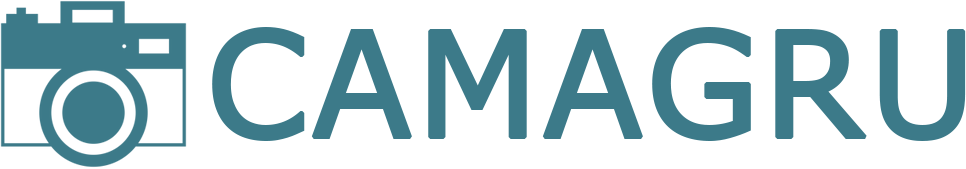
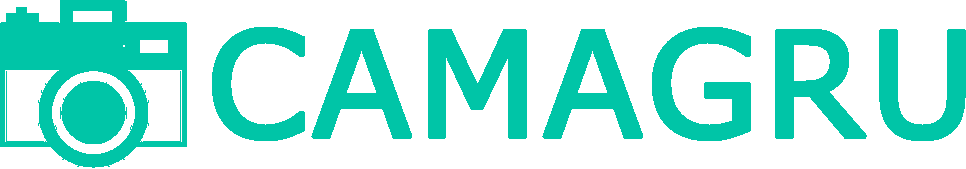
create post page && correct regex username

diff --git a/srcs/pages/post/index.js b/srcs/pages/post/index.js
@@ -1,0 +1,57 @@
+const videoElement = document.querySelector('video');
+const audioSelect = document.querySelector('select#audioSource');
+const videoSelect = document.querySelector('select#videoSource');
+
+navigator.mediaDevices.enumerateDevices()
+  .then(gotDevices).then(getStream).catch(handleError);
+
+audioSelect.onchange = getStream;
+videoSelect.onchange = getStream;
+
+function gotDevices(deviceInfos) {
+  for (let i = 0; i !== deviceInfos.length; ++i) {
+    const deviceInfo = deviceInfos[i];
+    const option = document.createElement('option');
+    option.value = deviceInfo.deviceId;
+    if (deviceInfo.kind === 'audioinput') {
+      option.text = deviceInfo.label ||
+        'microphone ' + (audioSelect.length + 1);
+      audioSelect.appendChild(option);
+    } else if (deviceInfo.kind === 'videoinput') {
+      option.text = deviceInfo.label || 'camera ' +
+        (videoSelect.length + 1);
+      videoSelect.appendChild(option);
+    } else {
+      console.log('Found another kind of device: ', deviceInfo);
+    }
+  }
+}
+
+function getStream() {
+  if (window.stream) {
+    window.stream.getTracks().forEach(function(track) {
+      track.stop();
+    });
+  }
+
+  const constraints = {
+    audio: {
+      deviceId: {exact: audioSelect.value}
+    },
+    video: {
+      deviceId: {exact: videoSelect.value}
+    }
+  };
+
+  navigator.mediaDevices.getUserMedia(constraints).
+    then(gotStream).catch(handleError);
+}
+
+function gotStream(stream) {
+  window.stream = stream; // make stream available to console
+  videoElement.srcObject = stream;
+}
+
+function handleError(error) {
+  console.error('Error: ', error);
+}

diff --git a/srcs/components/signup_form/index.js b/srcs/components/signup_form/index.js
@@ -32,9 +32,7 @@ function emailChecker() {
 function usernameChecker() {
   var ret;
 
-  ret = username.match(
-    /^(?=.{4,20}$)(?![_.])(?!.*[_.]{2})[a-zA-Z0-9._]+(?<![_.])$/,
-  );
+  ret = username.match(/^[a-zA-Z0-9\.\-\_]{4,20}$/);
   document.getElementById('signup-username').className = ret
     ? 'input is-success'
     : 'input is-danger';

diff --git a/srcs/pages/login/index.css b/srcs/pages/login/index.css
@@ -5,6 +5,14 @@
   margin: 0 auto;
 }
 
+#login-success {
+  background: #23d160;
+  width: 50%;
+  text-align: center;
+  margin: 10 auto;
+  color: #fff;
+}
+
 #login-error {
   background: #ff2b56;
   width: 50%;

diff --git a/srcs/components/signup_form/index.php b/srcs/components/signup_form/index.php
@@ -1,17 +1,17 @@
 <style><?php include("{$path}/components/signup_form/index.css"); ?></style>
-<script language='javascript'><?php include("{$path}/components/signup_form/index.js"); ?></script>
+<script><?php include("{$path}/components/signup_form/index.js"); ?></script>
 <div id="signup-wrapper" class="card">
   <h1 id="signup-title" class="title is-2">Sign Up</h1>
   <form id="signup-form" method="post" action="/signup">
-    <input id="signup-email" name="email" class="input" type="email" placeholder="Email" oninput="emailListener();"><br/>
+    <input id="signup-email" name="email" class="input" type="email" placeholder="Email" oninput="emailListener()"><br/>
     <p id="signup-email-danger" class="help is-danger">This email is invalid.</p>
-    <input id="signup-username" name="username" class="input" type="text" placeholder="Username" oninput="usernameListener();"><br/>
-    <p id="signup-username-danger" class="help is-danger">4 lengths alphanumeric characters minimum with . or _ in middle.</p>
-    <input id="signup-password" name="password" class="input" type="password" placeholder="Password" oninput="passwordListener();"><br/>
+    <input id="signup-username" name="username" class="input" type="text" placeholder="Username" oninput="usernameListener()"><br/>
+    <p id="signup-username-danger" class="help is-danger">Expected 4-20 lengths with alphanumeric or .-_ characters</p>
+    <input id="signup-password" name="password" class="input" type="password" placeholder="Password" oninput="passwordListener()"><br/>
     <p id="signup-password-warning" class="help is-warning">Add a special character for more security.</p>
-    <p id="signup-password-danger" class="help is-danger">Passwords must have at least 6 uppercase, lowercase and numeric characters.</p>
-    <input id="signup-confirmPassword" name="confirmPassword" class="input" type="password" placeholder="Confirm Password" oninput="confirmPasswordListener();"><br/>
-    <p id="signup-confirmPassword-danger" class="help is-danger">Not the same password</p>
+    <p id="signup-password-danger" class="help is-danger">Expected at least 6 uppercase, lowercase and numeric characters.</p>
+    <input id="signup-confirmPassword" name="confirmPassword" class="input" type="password" placeholder="Confirm Password" oninput="confirmPasswordListener()"><br/>
+    <p id="signup-confirmPassword-danger" class="help is-danger">Expected the same password</p>
     <input id="signup-send-button" class="button is-primary" type="submit" value="Sign up" disabled />
   </form>
   <div>Have an account? <a href="/login">Log in</a></div>

diff --git a/srcs/pages/post/index.php b/srcs/pages/post/index.php
@@ -1,0 +1,73 @@
+<?php
+  if (is_connect() == 0)
+    echo '<script>document.location.href="/signup";</script>';
+?>
+<style>
+#container {
+	margin: 0px auto;
+	width: 500px;
+	height: 375px;
+	border: 10px #00d1b2 solid;
+}
+#videoElement {
+	width: 500px;
+	height: 375px;
+	background-color: #008071;
+}
+
+.blur{filter: blur(5px);}
+.brightness{filter: brightness(0.4);}
+.contrast{filter: contrast(200%);}
+.grayscale{filter: grayscale(50%);}
+.hue-rotate{filter: hue-rotate(90deg);}
+.invert{filter: invert(75%);}
+.saturate{filter: saturate(30%);}
+.sepia{filter: sepia(60%);}
+</style>
+<div id='container'>
+<video autoplay id='videoElement'></video>
+<p><button class="capture-button">Capture video</button>
+<p><button id="cssfilters-apply">Apply CSS filter</button></p>
+</div>
+<script>
+const captureVideoButton =
+  document.querySelector('.capture-button');
+const cssFiltersButton =
+  document.querySelector('#cssfilters-apply');
+const video =
+  document.querySelector('video');
+
+let filterIndex = 0;
+const filters = [
+  'grayscale',
+  'sepia',
+  'blur',
+  'brightness',
+  'contrast',
+  'hue-rotate',
+  'saturate',
+  'invert',
+  ''
+];
+
+captureVideoButton.onclick = function() {
+  const constraints = {
+    video: true
+  };
+  navigator.mediaDevices.getUserMedia(constraints).
+    then(handleSuccess).catch(handleError);
+};
+
+cssFiltersButton.onclick = video.onclick = function() {
+  video.className = filters[filterIndex++ % filters.length];
+};
+
+function handleSuccess(stream) {
+  video.srcObject = stream;
+}
+
+function handleError(stream) {
+  console.log('Something went wrong.');
+}
+
+</script>

diff --git a/srcs/header/index.php b/srcs/header/index.php
@@ -1,10 +1,7 @@
 <style><?php include("{$path}/header/index.css"); ?></style>
-<script><?php include("{$path}/header/index.js"); ?></script>
 <?php
-  if(isset($_GET['logout'])) {
-    unset($_SESSION['username']);
-    unset($_SESSION['password']);
-  }
+  if(isset($_GET['logout'])) { disconnect(); }
+
   $buttons = (!is_connect()) ? '
     <a class="button is-primary" href="/signup">
       <strong>Sign up</strong>
@@ -22,7 +19,7 @@
 ?>
 <nav id="header" role="navigation" aria-label="main navigation">
     <a href="/">
-      <img id="header-img" src="/assets/camagru2.png" alt="Camagru">
+      <img id="header-img" src="/assets/camagru.png" alt="Camagru">
     </a>
     <div id='header-buttons-wrapper'>
       <div id="header-buttons">

diff --git a/srcs/index.php b/srcs/index.php
@@ -8,6 +8,7 @@
   $page = array('/' => "{$path}/pages/index/index.php",
                 '/signup' => "{$path}/pages/signup/index.php",
                 '/login' => "{$path}/pages/login/index.php",
+                '/post' => "{$path}/pages/post/index.php",
                 '/install' => "{$path}/install.php");
 
 ?>
@@ -17,6 +18,7 @@
   <head>
     <meta http-equiv="Content-Type" content="text/html; charset=utf-8"/>
     <meta name="viewport" content="width=device-width, initial-scale=1.0, shrink-to-fit=no">
+    <link rel="icon" type="image/png" href="/assets/camagru_icon.png" />
     <link rel="stylesheet" href="https://fonts.googleapis.com/icon?family=Material+Icons">
     <title> Camagru </title>
   </head>

diff --git a/srcs/pages/index/index.php b/srcs/pages/index/index.php
@@ -1,8 +1,13 @@
 <style><?php include("{$path}/pages/index/index.css"); ?></style>
 <div id="index-wrapper">
-  <a id='index-add' class="box button is-primary">
-    <i class="material-icons">add_circle_outline</i>
-  </a>
+  <?php
+    if (is_connect())
+      echo "
+      <a id='index-add' class='box button is-primary' href='/post'>
+        <i class='material-icons'>add_circle_outline</i>
+      </a>
+      ";
+  ?>
   <?php include("{$path}/components/card/index.php"); ?>
   <?php include("{$path}/components/card/index.php"); ?>
   <?php include("{$path}/components/card/index.php"); ?>

diff --git a/srcs/pages/login/confirm_email.php b/srcs/pages/login/confirm_email.php
@@ -10,7 +10,10 @@
       $req = $db->prepare('UPDATE Users SET mailHash = "",
                                   completed = 1 WHERE email = :email');
       $req->execute(array(':email' => $_GET['email']));
-      echo 'Your account is now completed.';
+      echo "
+      <div id='login-success' class='box'>
+        <div class='content'>Your account is now completed.</div>
+      </div>";
     }
   }
 

diff --git a/srcs/pages/signup/index.php b/srcs/pages/signup/index.php
@@ -41,7 +41,7 @@
     global $strError;
     global $db;
 
-    if (!preg_match('/^(?=.{4,20}$)(?![_.])(?!.*[_.]{2})[a-zA-Z0-9._]+(?<![_.])$/', $_POST['username'])) {
+    if (!preg_match('/^[a-zA-Z0-9\.\-\_]{4,20}$/', $_POST['username'])) {
       $strError = $strError . "Username Error.<br/>";
       return (1);
     }

diff --git a/srcs/connection.php b/srcs/connection.php
@@ -17,4 +17,9 @@
     $value = $req->fetchAll();
     return ($value && $value[0] && $value[0]['completed'] && $value[0]['password'] == $_SESSION['password']) ? true : false;
   }
+
+  function disconnect() {
+      unset($_SESSION['username']);
+      unset($_SESSION['password']);
+  }
 ?>
